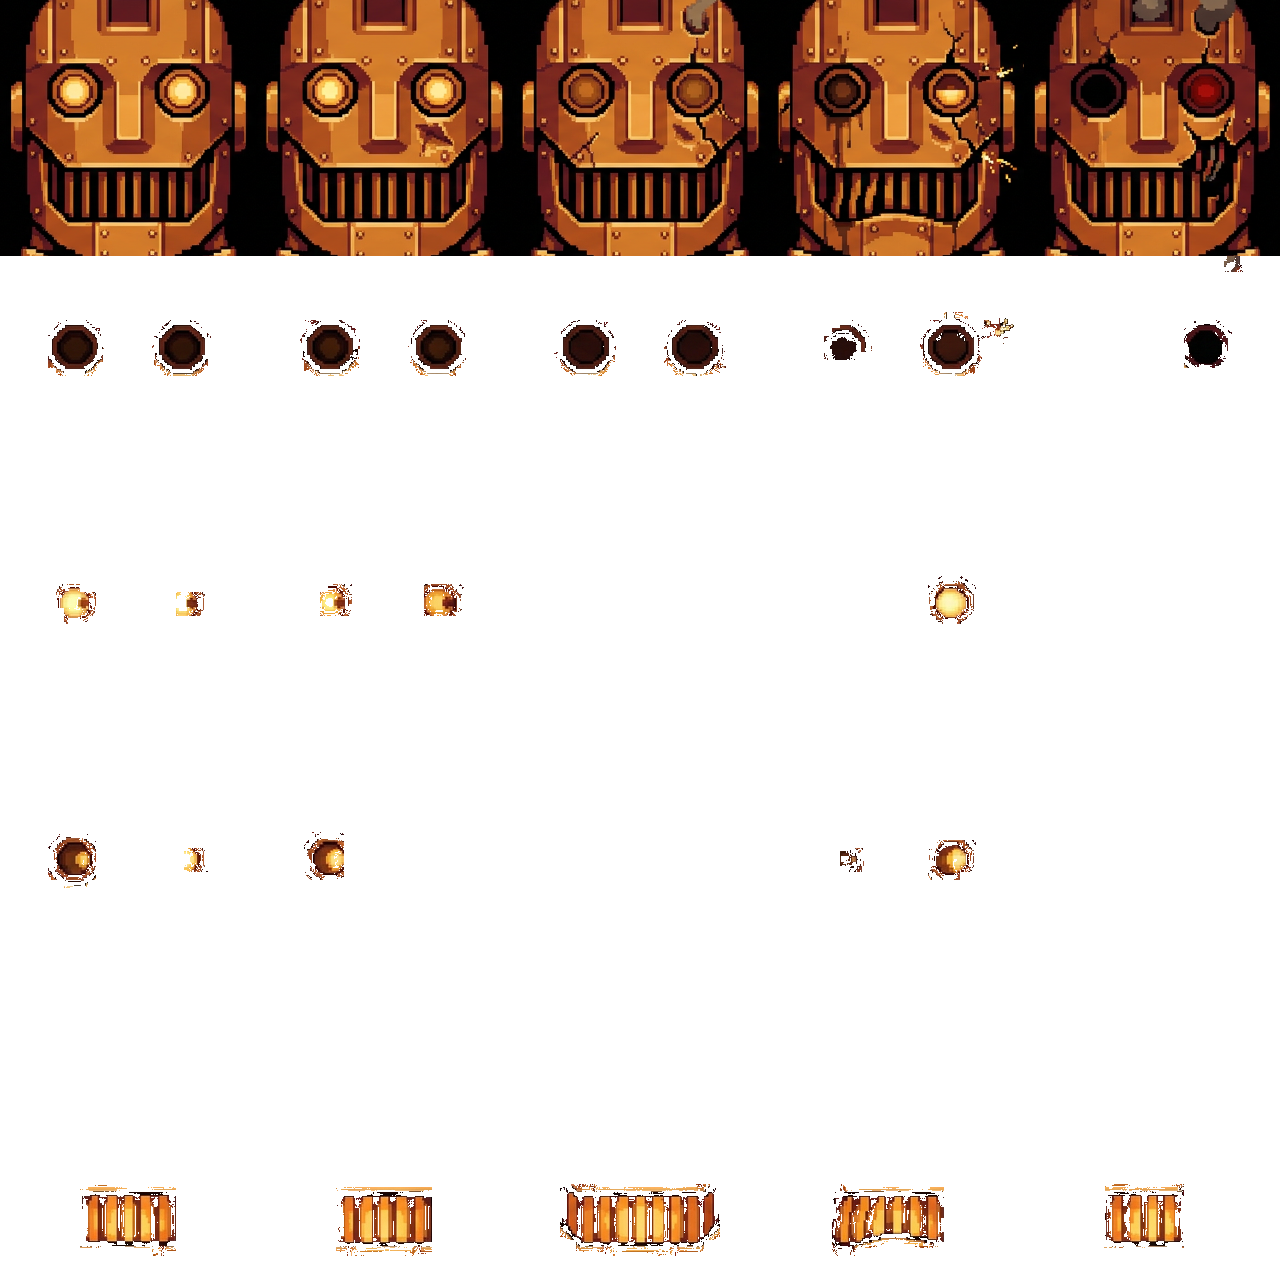
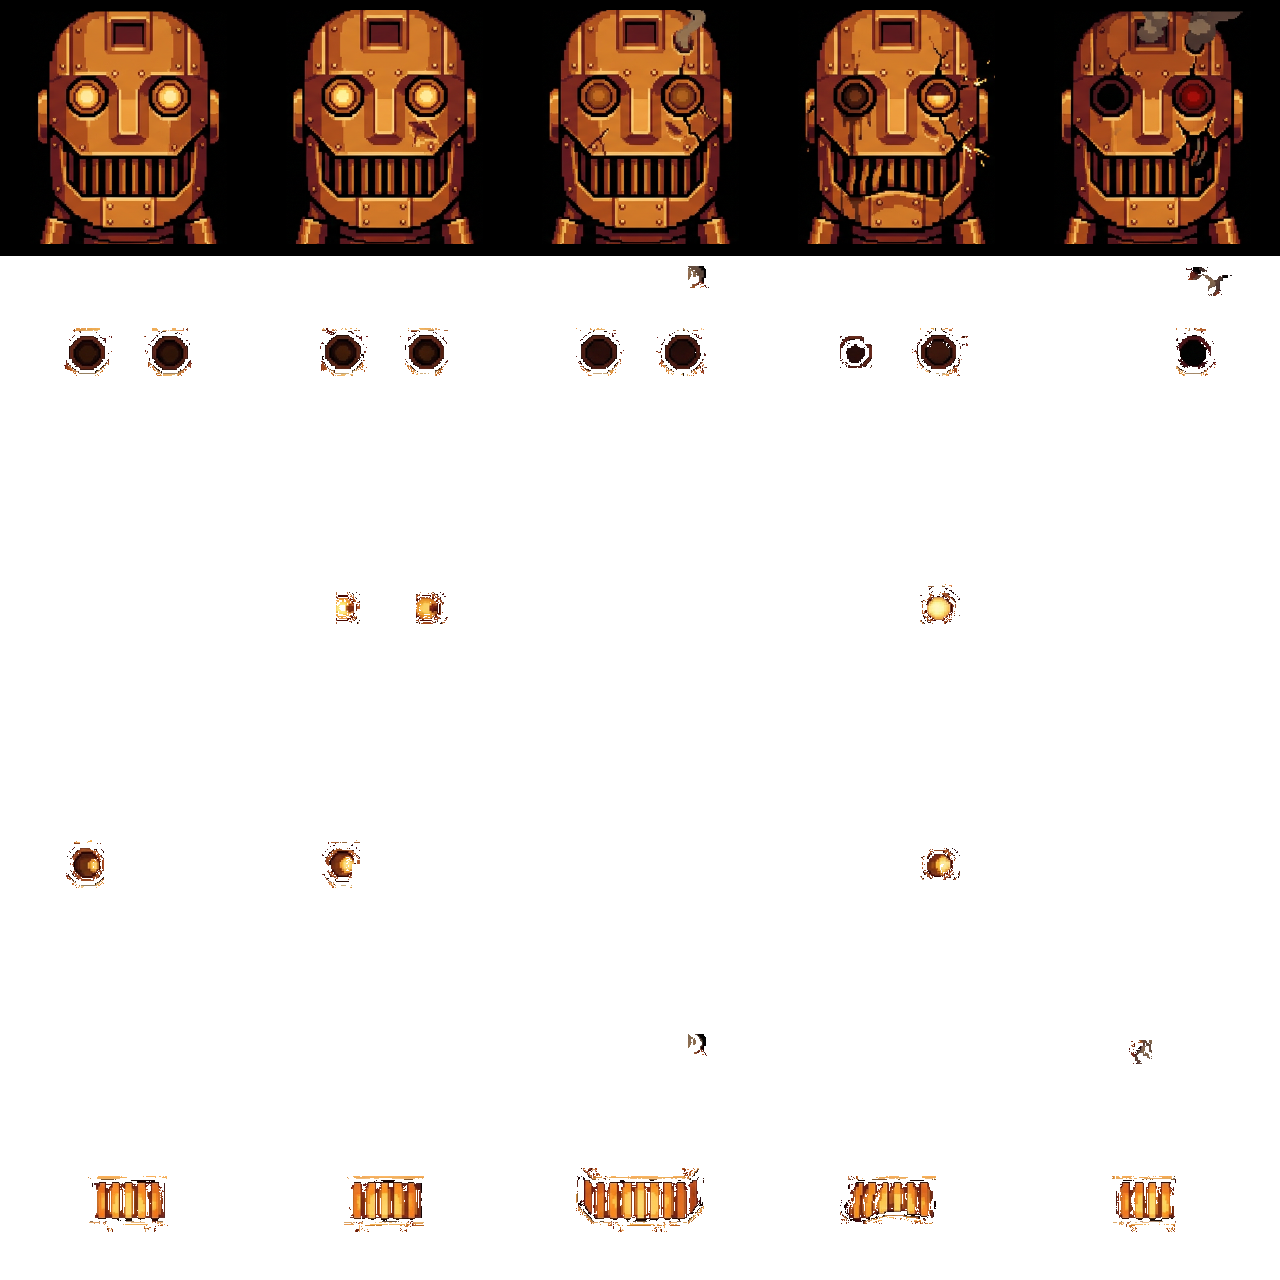
feat(examples): zoom the Welder and the Automaton out to match the Smith
The sprite script takes a per-avatar zoom and pads with black outside
the panel, so all three heads sit at a similar size in the frame.

diff --git a/examples/foundry-agent-harness/scripts/sprites.ts b/examples/foundry-agent-harness/scripts/sprites.ts
@@ -15,6 +15,10 @@ const FINE_THRESHOLD = 18;
 const WHITE = 235;
 const INSET = 14;
 const HEADROOM = 0.45;
+const ZOOM_OUT: Readonly<Record<string, number>> = {
+  automaton: 1.3,
+  welder: 1.3,
+};
 const SEARCH = 6;
 const SAMPLE_STEP = 3;
 const MIN_PANEL = 100;
@@ -33,7 +37,11 @@ interface Image {
 }
 
 interface Panel {
+  readonly bottom: number;
+  readonly left: number;
+  readonly right: number;
   readonly side: number;
+  readonly top: number;
   readonly x: number;
   readonly y: number;
 }
@@ -191,11 +199,17 @@ function panels(name: string, image: Image): Panel[] {
   }
   const [top, bottom] = band;
   return columns.map(([from, to]) => {
-    const side = Math.min(to - from, bottom - top) - INSET * 2;
+    const tall = bottom - top - INSET * 2;
+    const fitted = Math.min(to - from, bottom - top) - INSET * 2;
+    const side = Math.round(fitted * (ZOOM_OUT[name] ?? 1));
     return {
+      bottom: bottom - INSET,
+      left: from + INSET,
+      right: to - INSET,
       side,
+      top: top + INSET,
       x: Math.floor((from + to) / 2 - side / 2),
-      y: top + INSET + Math.floor((bottom - top - INSET * 2 - side) * HEADROOM),
+      y: top + INSET + Math.floor((tall - side) * HEADROOM),
     };
   });
 }
@@ -204,8 +218,18 @@ function crop(image: Image, panel: Panel, dx = 0, dy = 0): Image {
   const { side } = panel;
   const data = new Uint8Array(side * side * 3);
   for (let y = 0; y < side; y += 1) {
-    const from = ((panel.y + dy + y) * image.width + panel.x + dx) * 3;
-    data.set(image.data.subarray(from, from + side * 3), y * side * 3);
+    const row = panel.y + dy + y;
+    if (row < panel.top + dy || row >= panel.bottom + dy) {
+      continue;
+    }
+    const start = panel.x + dx;
+    const left = Math.max(start, panel.left + dx);
+    const right = Math.min(start + side, panel.right + dx);
+    const from = (row * image.width + left) * 3;
+    data.set(
+      image.data.subarray(from, from + (right - left) * 3),
+      (y * side + left - start) * 3
+    );
   }
   const seen = new Uint8Array(side * side);
   const stack: number[] = [];

diff --git a/examples/foundry-agent-harness/src/model/sprites/automaton.ts b/examples/foundry-agent-harness/src/model/sprites/automaton.ts
@@ -4,5 +4,5 @@ export const automaton: SpriteSheet = {
   cell: 256,
   file: "automaton.png",
   poses: ["blink", "left", "right", "glow"],
-  still: { left: ["hurt", "critical"], right: ["hurt", "critical"] },
+  still: { left: ["fresh", "hurt", "critical"], right: ["hurt", "critical"] },
 };
